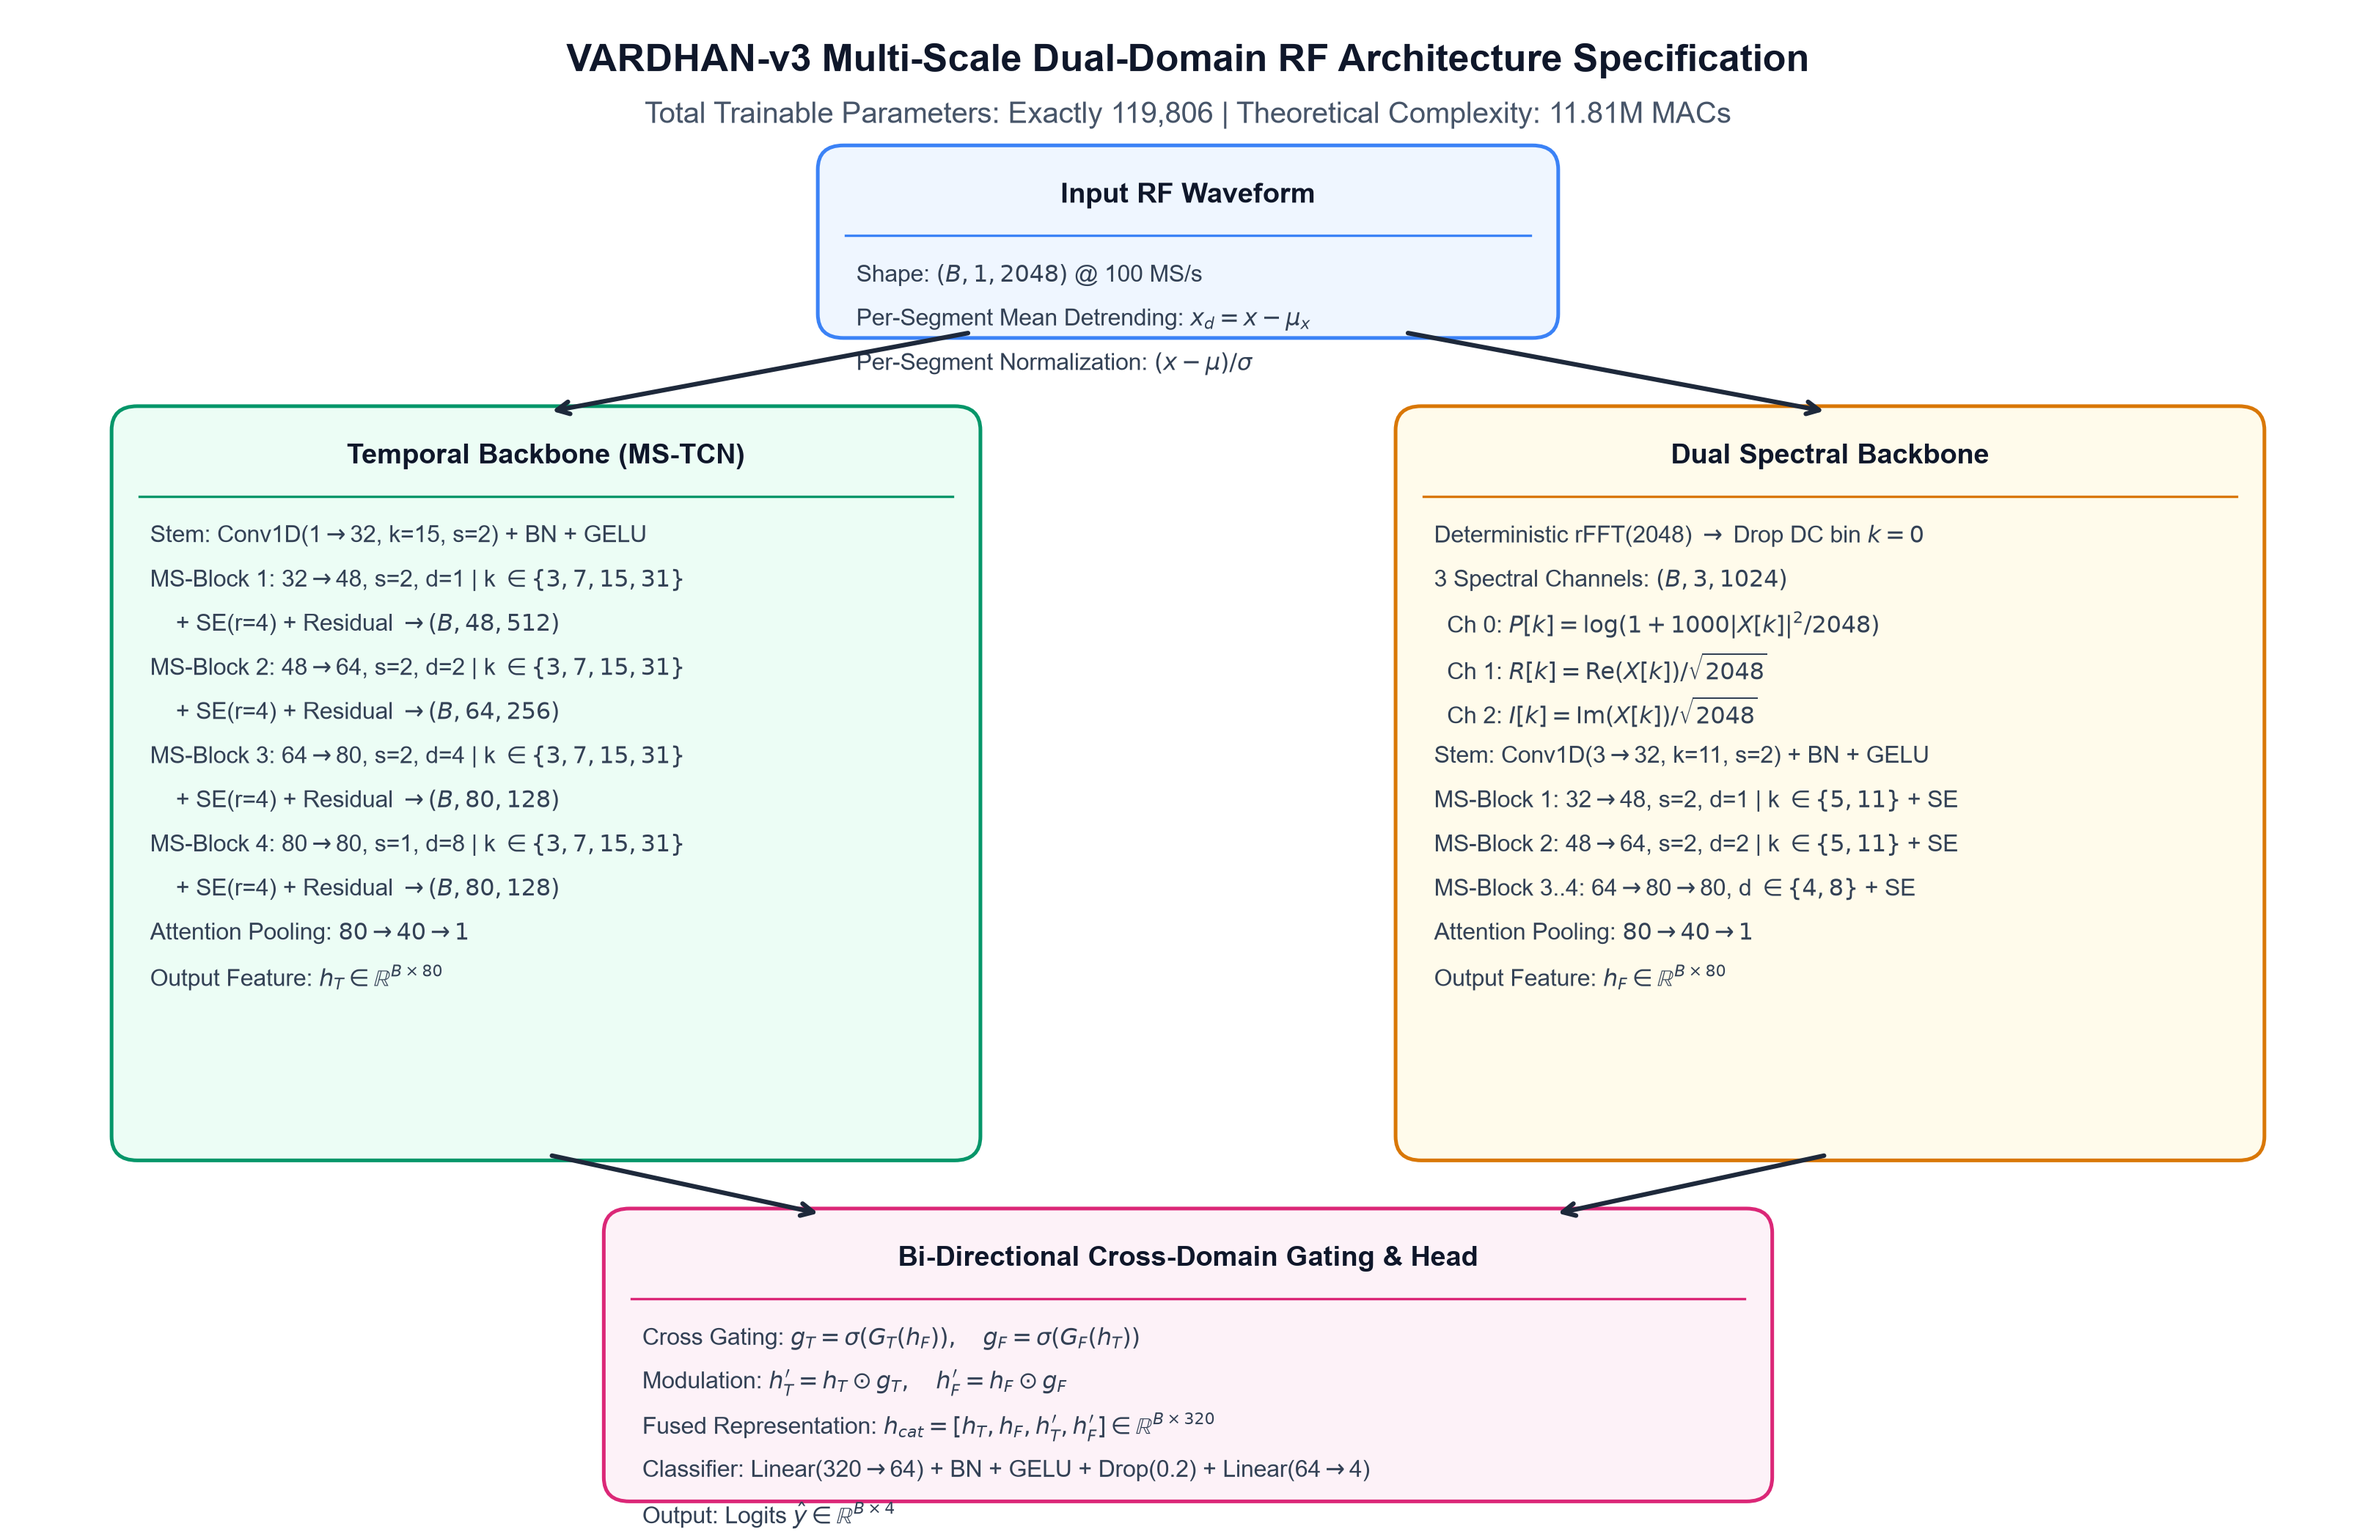
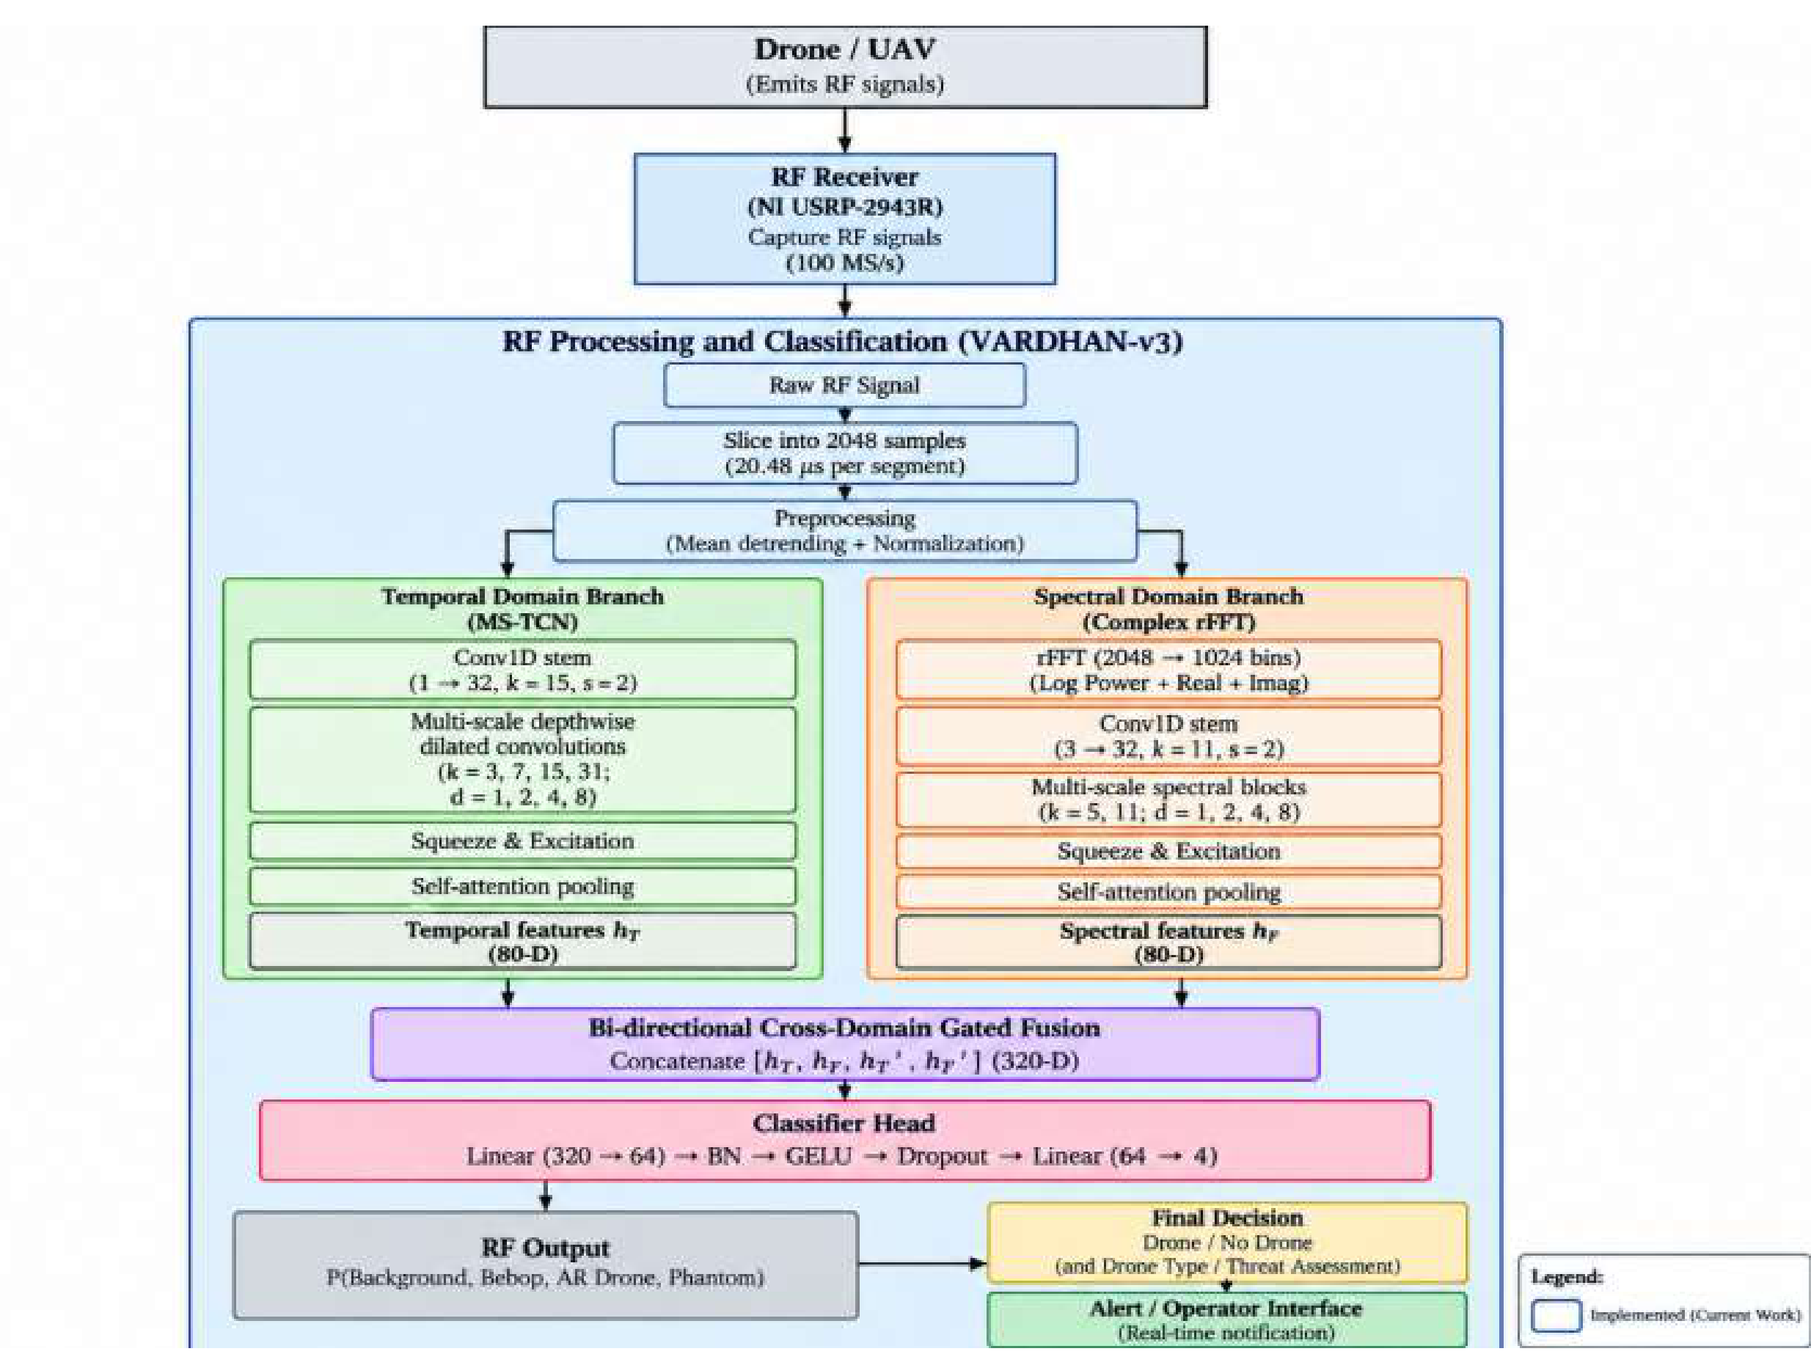
Website: update detailed VARDHAN-v3 architecture diagram

diff --git a/pages/vardhan.html b/pages/vardhan.html
@@ -150,8 +150,8 @@ Total trainable parameters: 69,559</code></pre>
         <figcaption><strong>Figure 1.</strong> Overall VARDHAN-v3 architecture: shared waveform input, temporal and spectral backbones, attention pooling and cross-domain gated fusion.</figcaption>
       </figure>
       <figure>
-        <img src="../assets/figures/report/vardhan_detailed_architecture.png" alt="Detailed VARDHAN-v3 layer diagram">
-        <figcaption><strong>Figure 2.</strong> Detailed layer-level view of VARDHAN-v3.</figcaption>
+        <img src="../assets/figures/report/vardhan_detailed_architecture.png" alt="Detailed VARDHAN-v3 pipeline from drone RF emission and USRP receiver through the temporal and spectral branches, cross-domain gated fusion and classifier head to the final decision">
+        <figcaption><strong>Figure 2.</strong> Detailed VARDHAN-v3 pipeline: RF capture by the NI USRP-2943R at 100 MS/s, slicing into 2048-sample segments, preprocessing, the temporal (MS-TCN) and spectral (complex rFFT) branches with their layer settings, bi-directional cross-domain gated fusion (320-D), the classifier head, and the four-class RF output.</figcaption>
       </figure>
 
       <h3>Layer specification</h3>
